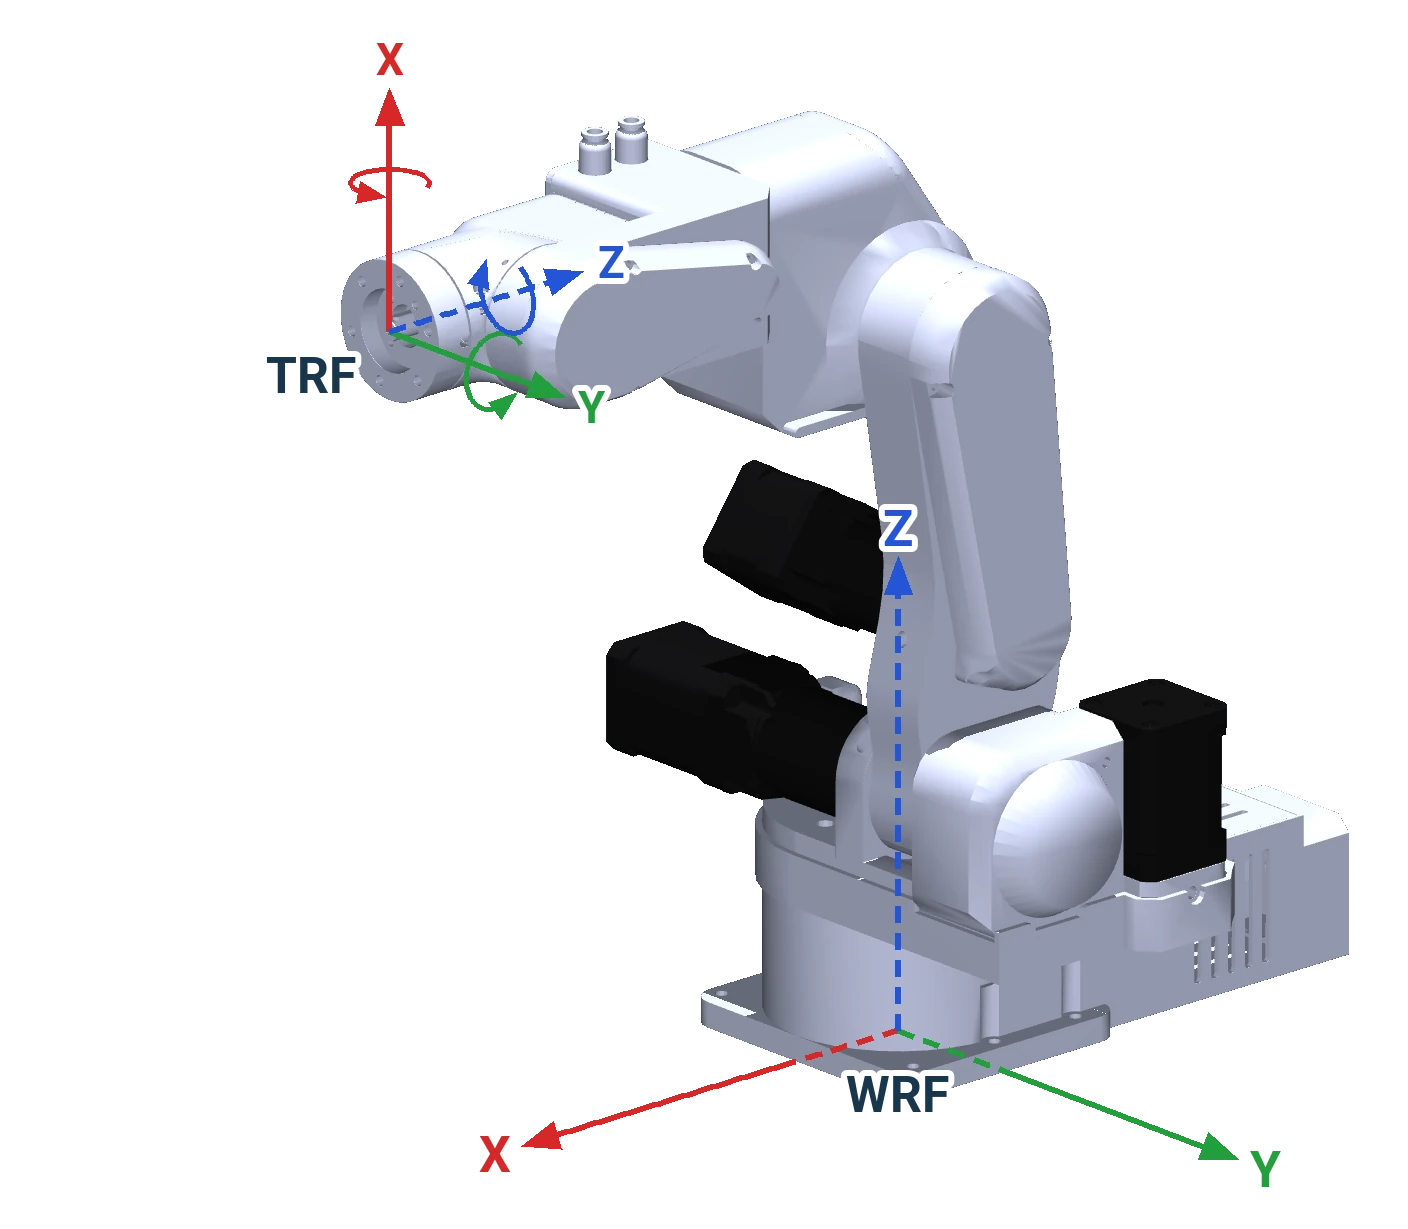
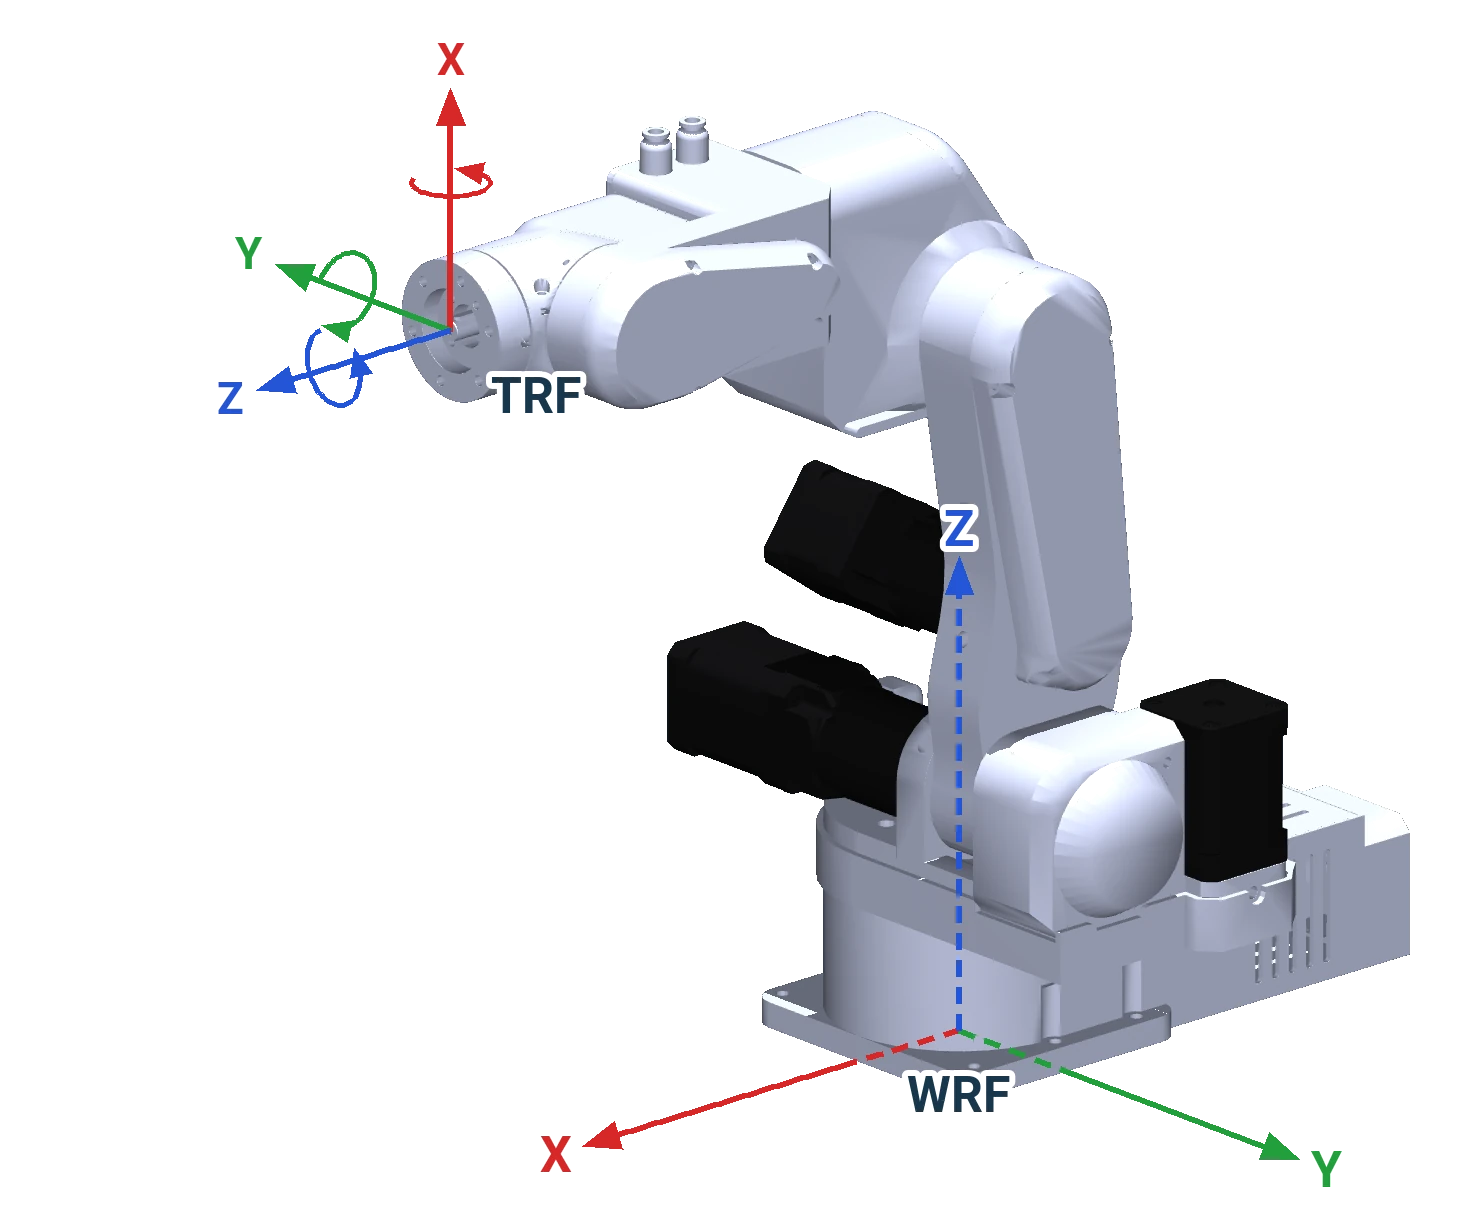
Reference frames: the tool frame in the commander's convention, the API's as KI-11
The owner was not sure about the gripper frames, whose Z pointed back into the wrist (the Python API's
convention). The figures and the pages now use the commander's frame, which is the robot model's flange frame:
Z out of the flange along the joint 6 axis, X up in the standby pose, Y to the robot's right. The API (0.9.1)
has the same frame turned 180 degrees about X; a warning on Reference frames, Tools and the TCP and Your own tool
says so, the API examples stay as the API needs them (negative z out of the tool), and known issue KI-11 records
it. KI-10 now mentions the API's tool offsets (up to about 14 mm from the model's TCP). The TCP table says which
way each gripper's fingers point: the pneumatic gripper's along -X, the others along Z.

diff --git a/docs/theory/reference-frames.md b/docs/theory/reference-frames.md
@@ -33,15 +33,23 @@ orientation angle in the software follows this rule.
     ![The world frame (WRF) at the base and the tool frame (TRF) at the MSG's TCP, in the standby pose](../assets/figures/parol6_frames_msg.webp#only-light){ width="640" }
     ![The world frame (WRF) at the base and the tool frame (TRF) at the MSG's TCP, in the standby pose](../assets/figures/parol6_frames_msg_dark.webp#only-dark){ width="640" }
 
-The pictures show the frames as the Python API defines them, drawn on the robot's model: X red, Y green, Z blue.
-The arcs at the tool frame are the positive rotations RX, RY and RZ. An axis is dashed where it runs inside the
-robot. The directions in the table are those of the standby pose.
+The pictures show the frames on the robot's model, in the commander software's convention, which these pages
+use: X red, Y green, Z blue. The arcs at the tool frame are the positive rotations RX, RY and RZ. An axis is
+dashed where it runs inside the robot. The directions in the table are those of the standby pose.
+
+!!! warning "In the Python API, the tool frame's Y and Z point the other way"
+    In the Python API (version 0.9.1) the flange and tool frames are these frames turned 180° about X: X is the
+    same, Y and Z point the other way, so the API's Z points back into the wrist. A TRF move or jog, or a TCP
+    offset, "out of the tool" is negative z there: `move_l([0, 0, -20, 0, 0, 0], frame="TRF", rel=True)` moves the
+    tool 20 mm out along the joint 6 axis, and `set_tcp_offset(0, 0, -120)` puts the TCP 120 mm in front of the
+    flange. The code examples on these pages are written for the API as it is
+    ([known issue KI-11](../08-troubleshooting/known-issues.md)).
 
 | Frame | Origin | X | Y | Z |
 |---|---|---|---|---|
 | WRF | On the joint 1 axis, at the base's mounting surface | Forward: the way the arm points in the standby pose, away from the electronics case | To the left, seen from behind the robot: the way the arm points after homing | Up, along the joint 1 axis |
-| Flange frame | On the joint 6 axis, at the flange | Up; it turns with joint 6 | To the robot's left | Back along the joint 6 axis, into the wrist |
-| TRF | At the tool centre point (TCP) | As the flange frame | As the flange frame | As the flange frame: back along the tool, away from the part |
+| Flange frame | On the joint 6 axis, at the flange face | Up; it turns with joint 6 | To the robot's right | Out of the flange, along the joint 6 axis |
+| TRF | At the tool centre point (TCP) | As the flange frame | As the flange frame | As the flange frame: out of the tool, along the joint 6 axis |
 
 ## WRF, the world reference frame
 
@@ -53,50 +61,49 @@ commander software and the Python API agree on it.
 ## TRF, the tool reference frame
 
 Fixed to the tool: the origin at the tool centre point, the axes those of the flange frame. It moves with the
-arm. In the Python API, **Z points back along the tool, towards the wrist**, so the direction towards the part is
-−Z. A move **in** the TRF is relative to where the tool is now: "100 mm towards the part, along the tool" is
-`move_l([0, 0, -100, 0, 0, 0], frame="TRF", rel=True)`, and it goes in a different world direction every time,
-depending on the tool's orientation. Approaching a part along the gripper's axis, retreating after a grip, and
-rotating the tool about its own axis are TRF moves.
-
-!!! warning "The commander's tool frame is turned half a turn"
-    The commander software computes the tool frame from its own model of the pneumatic gripper. Its X is the same,
-    but its Y and Z point the other way: Z points out of the tool, towards the part. In the commander,
-    `MoveCartRelTRF(0,0,100,0,0,0)` moves the tool 100 mm towards the part; the same numbers in the Python API
-    move it 100 mm away. Jog slowly in the TRF before you run a TRF move written for the other program.
+arm. Z points out of the tool along the joint 6 axis, the way the SSG-48's and the MSG's jaws point; the pneumatic
+gripper's fingers hang beside the axis and point along −X. A move **in** the TRF is relative to where the tool is
+now: "100 mm out along the tool" is `MoveCartRelTRF(0,0,100,0,0,0)` in the commander, and
+`move_l([0, 0, -100, 0, 0, 0], frame="TRF", rel=True)` in the Python API, whose Z points the other way (above). It
+goes in a different world direction every time, depending on the tool's orientation. Approaching a part along
+the gripper's axis, retreating after a grip, and rotating the tool about its own axis are TRF moves. Jog slowly
+in the TRF before you run a TRF move written for the other program.
 
 ## The flange frame
 
-![The flange frame on the flange face, in the standby pose: X up, Y to the robot's left, Z back along the joint 6 axis into the wrist](../assets/figures/parol6_flange_frame.webp#only-light){ width="520" }
-![The flange frame on the flange face, in the standby pose: X up, Y to the robot's left, Z back along the joint 6 axis into the wrist](../assets/figures/parol6_flange_frame_dark.webp#only-dark){ width="520" }
+![The flange frame on the flange face, in the standby pose: X up, Y to the robot's right, Z out of the flange along the joint 6 axis](../assets/figures/parol6_flange_frame.webp#only-light){ width="520" }
+![The flange frame on the flange face, in the standby pose: X up, Y to the robot's right, Z out of the flange along the joint 6 axis](../assets/figures/parol6_flange_frame_dark.webp#only-dark){ width="520" }
 
-Every tool is measured from the flange frame. Its origin is on the joint 6 axis, and its Z axis points back along
-that axis into the wrist. X and Y turn with joint 6: in the standby pose, with joint 6 at 180°, X points up. The
-picture puts the origin on the flange face, where the robot's model has it, 50.5 mm from the wrist centre (the
-point where the axes of joints 4, 5 and 6 meet). The Python API's built-in model puts it 37 mm from the wrist
-centre, 13.5 mm short of the face, and measures its tool offsets from there.
+Every tool is measured from the flange frame. Its origin is on the joint 6 axis at the flange face, 50.5 mm from
+the wrist centre (the point where the axes of joints 4, 5 and 6 meet), and its Z axis points out of the flange
+along that axis. X and Y turn with joint 6: in the standby pose, with joint 6 at 180°, X points up. The Python
+API's built-in model puts the origin 37 mm from the wrist centre, 13.5 mm short of the face, measures its tool
+offsets from there, and has Y and Z the other way (above).
 
 ## The TCP of each tool
 
-| Tool | `select_tool` key, variants | TCP in the API's flange frame, x, y, z | From the wrist centre, along the tool and beside it: API | The same in the model: a6, a7 | Jaws close along |
+| Tool | `select_tool` key, variants | The API's offset, in its own axes: x, y, z | From the wrist centre, along the tool and beside it: API | The same in the model: a6, a7 | Fingers point along; jaws close along |
 |---|---|---|---|---|---|
 | Bare flange | `NONE` | 0, 0, 0 mm | 37 mm, 0 | 50.5 mm, 0 | |
-| Pneumatic gripper | `PNEUMATIC`, `vertical` (the default) | −55, 0, −27 mm | 64 mm, 55 mm | 62.3 mm, 45.25 mm | Y |
-| Pneumatic gripper | `PNEUMATIC`, `horizontal` | 0, 0, −82 mm | 119 mm, 0 | not in the model | X |
-| SSG-48 | `SSG-48`, `finger`, `pinch` | 0, 0, −105 mm | 142 mm, 0 | 134.3 mm, 0 | Y |
-| MSG | `MSG`, `100mm`, `150mm`, `200mm` | −29, 0, −109.5 mm | 146.5 mm, 29 mm | 134.3 mm, 28.35 mm | Y |
+| Pneumatic gripper | `PNEUMATIC`, `vertical` (the default) | −55, 0, −27 mm | 64 mm, 55 mm | 62.3 mm, 45.25 mm | −X; Y |
+| Pneumatic gripper | `PNEUMATIC`, `horizontal` | 0, 0, −82 mm | 119 mm, 0 | not in the model | Z; X |
+| SSG-48 | `SSG-48`, `finger`, `pinch` | 0, 0, −105 mm | 142 mm, 0 | 134.3 mm, 0 | Z; Y |
+| MSG | `MSG`, `100mm`, `150mm`, `200mm` | −29, 0, −109.5 mm | 146.5 mm, 29 mm | 134.3 mm, 28.35 mm | Z; Y |
 | Vacuum gripper | `VACUUM` | 0, 0, −37 mm | 74 mm, 0 | not in the model | |
 
-Every tool frame has the flange frame's axes: the Python API's tool definitions are offsets, with no rotation. A
-TCP beside the tool axis lies along the flange frame's −X, below the joint 6 axis in the standby pose. The API's
-offsets come from the earlier model and differ from the robot's model by up to about 14 mm; the pictures above
-are drawn at the model's TCP. `set_tcp_offset()` and `set_tcp_transform()` move the TCP for a correction or a tool
+Every tool frame has the flange frame's axes: the Python API's tool definitions are offsets, with no rotation,
+and their negative z is out of the tool. A TCP beside the tool axis lies along the flange frame's −X, below the
+joint 6 axis in the standby pose. The model's TCP sits between the fingers, near their tips; the API's offsets
+come from the earlier model and differ from the model's by up to about 14 mm. The pictures above are drawn at the
+model's TCP. `set_tcp_offset()` and `set_tcp_transform()` move the TCP for a correction or a tool
 of your own ([Tools and the TCP](../programming/02-python-api/tools-and-tcp.md)).
 
 ## Jogging in a frame
 
 The commander's Cartesian jog and the API's `jog_l` take the frame: WRF jogs move the tool along the base's
 axes, TRF jogs along the tool's own. Switch to TRF to go straight in or out of a part whatever its angle.
+
+In the TRF column, +Z is out of the tool in the commander and into the wrist in the Python API.
 
 | Jog | In the WRF | In the TRF |
 |---|---|---|
@@ -106,8 +113,8 @@ axes, TRF jogs along the tool's own. Switch to TRF to go straight in or out of a
 ## Orientation
 
 A pose gives the tool frame's orientation in the world frame as three angles in degrees. The Python API reads
-them as intrinsic XYZ rotations, R = Rx · Ry · Rz: after homing, with the tool horizontal and pointing away from
-the base, a pose ends in 90, 0, 90. [Pose and orientation](pose-and-orientation.md) explains the angles.
+them as intrinsic XYZ rotations, R = Rx · Ry · Rz, of its own tool frame: after homing, with the tool horizontal
+and pointing away from the base, an API pose ends in 90, 0, 90. [Pose and orientation](pose-and-orientation.md) explains the angles.
 
 ## The frames inside
 

diff --git a/docs/programming/02-python-api/tools-and-tcp.md b/docs/programming/02-python-api/tools-and-tcp.md
@@ -70,7 +70,7 @@ The tool centre point is the point the robot positions: the registered tool's ti
 it:
 
 ```python
-index = rbt.set_tcp_offset(0, 0, -190)           # a translation in the tool frame, mm
+index = rbt.set_tcp_offset(0, 0, -190)           # a translation in the tool frame, mm: 190 mm out of the tool
 index = rbt.set_tcp_transform(0, 0, 25, 0, 90, 0) # translation and intrinsic XYZ rotation, degrees
 rbt.wait_command(index)                           # queued: wait before relying on it
 print(rbt.tcp_transform())                        # six values; tcp_offset() the three translations
@@ -79,6 +79,11 @@ print(rbt.tcp_transform())                        # six values; tcp_offset() the
 Both are queued with the motion so that moves planned before the change keep their frame. `set_tcp_offset`
 clears a rotation; a tool change clears both. The correction applies to live FK, Cartesian planning, TRF motion
 and dry-run previews alike; the collision meshes stay on their links regardless.
+
+!!! warning "The Python API's tool frame has Y and Z the other way"
+    In the Python API (version 0.9.1) the tool frame is the commander's turned 180° about X: its Z points back
+    into the wrist. An offset or a TRF move out of the tool is negative z, as in `set_tcp_offset(0, 0, -190)`
+    ([Reference frames](../../theory/reference-frames.md), [known issue KI-11](../../08-troubleshooting/known-issues.md)).
 
 ## Your own tool
 

diff --git a/docs/end-effectors/flange.md b/docs/end-effectors/flange.md
@@ -35,7 +35,9 @@ rbt.select_tool("NONE")                            # the bare flange
 ## Tool centre point
 
 The tool centre point (TCP) is a6 = 50.5 mm from the joint 6 centre along the tool axis and a7 = 0 mm to the side.
-With nothing on the flange, the TCP is the flange's reference point. The sheet is the robot's model from
+With nothing on the flange, the TCP is the flange's reference point, the origin of the flange frame: on the
+joint 6 axis at the flange face, Z out of the flange, X up in the standby pose. The Python API has the frame's Y
+and Z the other way ([Reference frames](../theory/reference-frames.md#the-flange-frame)). The sheet is the robot's model from
 [robot_descriptions](https://github.com/Source-Robotics/robot_descriptions) (version <!-- version: models.robot_descriptions -->) with every joint at 0.
 Tell the software about the tool ([Tools and the TCP](../programming/02-python-api/tools-and-tcp.md)); every tool
 is compared on [Dimensions and kinematics](../03-technical-data/kinematics.md).

diff --git a/docs/end-effectors/custom-tools.md b/docs/end-effectors/custom-tools.md
@@ -33,8 +33,10 @@ index = rbt.set_tcp_transform(0, 0, -120, 0, 15, 0)  # with a rotation, intrinsi
 rbt.wait_command(index)
 ```
 
-The flange frame's Z axis points back into the wrist, so a tip in front of the flange has a negative z
-([The flange frame](../theory/reference-frames.md#the-flange-frame)).
+!!! warning "The Python API's tool frame has Y and Z the other way"
+    In the Python API (version 0.9.1) the flange frame's Z points back into the wrist, the other way from the
+    commander's and these pages' ([The flange frame](../theory/reference-frames.md#the-flange-frame)), so a tip in
+    front of the flange has a negative z there ([known issue KI-11](../08-troubleshooting/known-issues.md)).
 
 A permanent tool goes into the API's tool registry as a `ToolConfig` with its collision mesh, so that the
 collision checker knows its shape ([Tools and the TCP](../programming/02-python-api/tools-and-tcp.md)). The

diff --git a/docs/programming/02-python-api/motion.md b/docs/programming/02-python-api/motion.md
@@ -21,7 +21,7 @@ a relative `move_l` moves along the tool's own axes.
 rbt.move_j([90, -90, 180, 0, 0, 180], speed=0.5)                 # joint move
 rbt.move_j(pose=[100, 340, 334, 90, 0, 90], speed=0.5)           # IK at the target, then a joint move
 rbt.move_l([-50, 340, 334, 90, 0, 90], speed=0.3)                # straight line
-rbt.move_l([0, 0, -20, 0, 0, 0], frame="TRF", rel=True, speed=0.2)   # 20 mm along the tool's -Z
+rbt.move_l([0, 0, -20, 0, 0, 0], frame="TRF", rel=True, speed=0.2)   # 20 mm out of the tool: the API's -Z
 rbt.move_c(via=[0, 250, 250, 90, 0, 90], end=[0, 263, 242, 90, 0, 90], speed=0.5)
 rbt.move_s([[0, 263, 242, 90, 0, 90], [50, 250, 200, 90, 0, 90]], speed=0.5)
 rbt.move_p(waypoints, speed=0.8)
